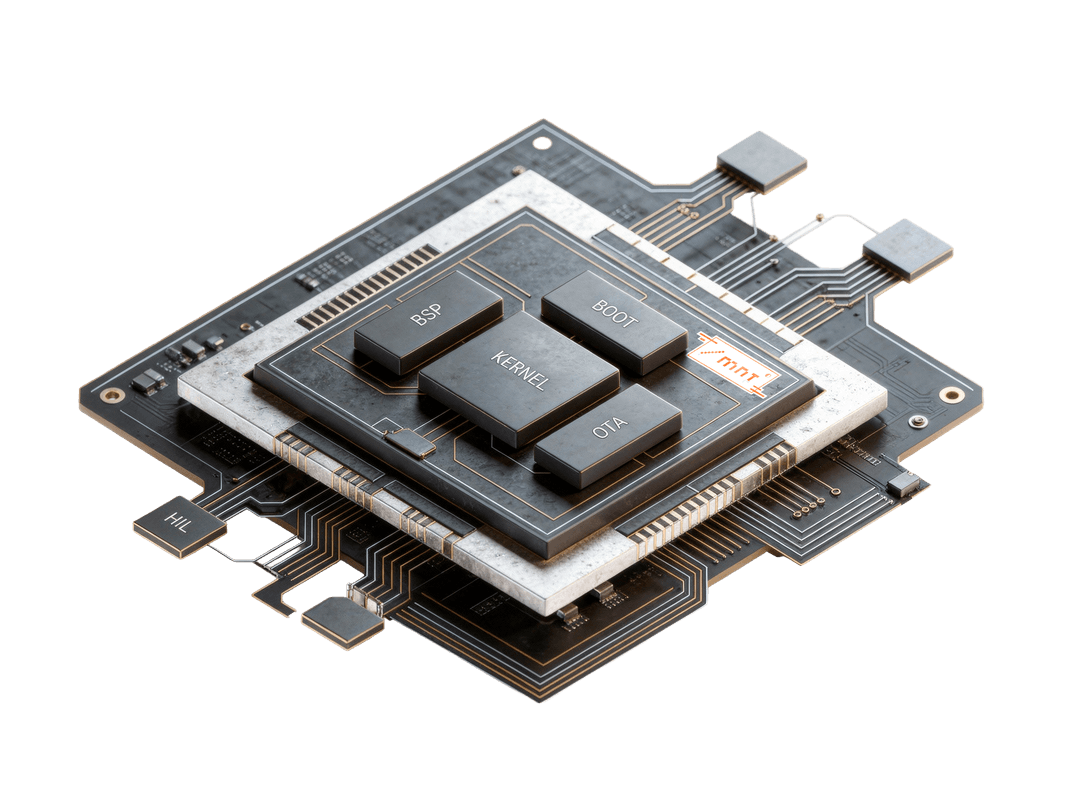
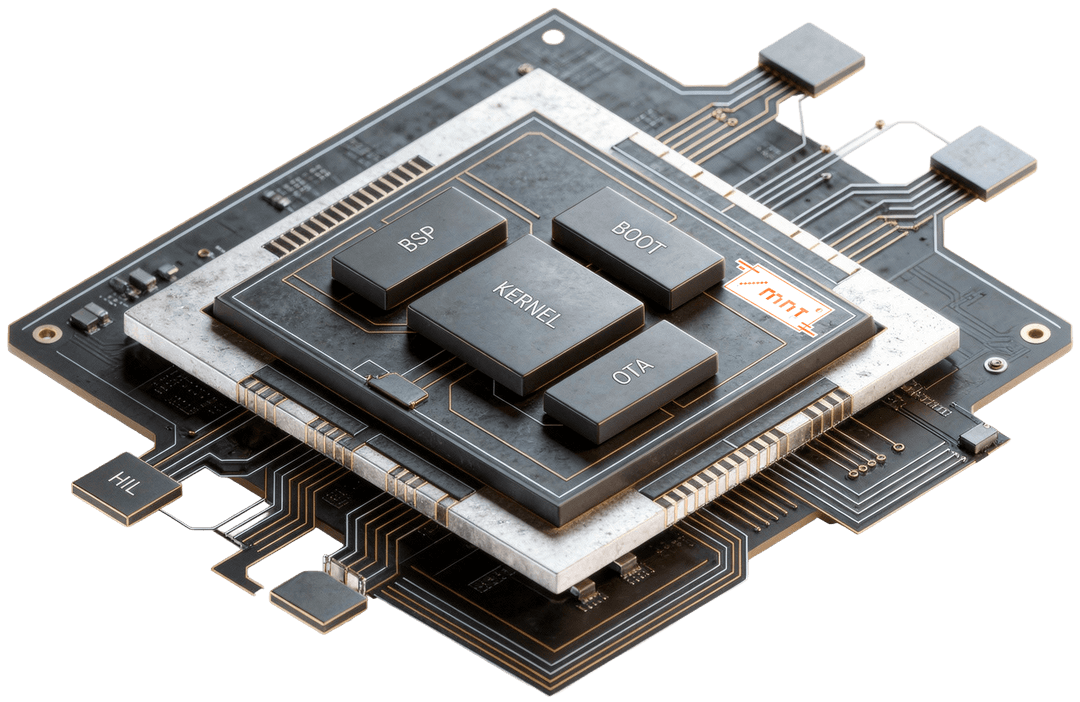
Update homepage and hero images

diff --git a/layouts/index.html b/layouts/index.html
@@ -2,7 +2,8 @@
 <html data-wf-page="69c4fb4cc51b8377ed2d0952" data-wf-site="69c4fb4bc51b8377ed2d08d2">
 <head>
   <meta charset="utf-8">
-  <title>MissingNo Technologies</title>
+  <title>MissingNo Technologies | Systems Engineering for High-Stakes Platforms</title>
+  <meta content="MissingNo Technologies helps build reliable high-stakes platforms through systems engineering, embedded software, platform architecture, and critical infrastructure expertise." name="description">
   <meta content="width=device-width, initial-scale=1" name="viewport">
   <link href="css/normalize.css" rel="stylesheet" type="text/css">
   <link href="css/components.css" rel="stylesheet" type="text/css">
@@ -281,7 +282,7 @@
     <div class="container container-navbar w-container">
       <div class="div-block">
         <div class="left-nav">
-          <a href="#" class="w-nav-brand"><img src="images/logo-mnt.png" loading="lazy" alt="" class="logo"></a>
+          <a href="#" class="w-nav-brand"><img src="images/logo-mnt.png" loading="lazy" alt="logo MissingNo Technologies" class="logo"></a>
           <div class="text-block">MissingNo<br>Technologies.</div>
           <div class="int-site">
             <div class="point"></div>
@@ -374,7 +375,7 @@
             </div>
           </div>
           <div class="col-2-banner">
-            <div class="bg-banner-blur"></div><img src="images/60520103-1ba0-45f9-9ed3-addb81d17af2.png" loading="lazy" sizes="(max-width: 767px) 100vw, (max-width: 991px) 728px, 940px" srcset="images/60520103-1ba0-45f9-9ed3-addb81d17af2.png 500w, images/60520103-1ba0-45f9-9ed3-addb81d17af2.png 800w, images/60520103-1ba0-45f9-9ed3-addb81d17af2.png 1080w, images/60520103-1ba0-45f9-9ed3-addb81d17af2.png 1600w, images/60520103-1ba0-45f9-9ed3-addb81d17af2.png 2000w, images/60520103-1ba0-45f9-9ed3-addb81d17af2.png 2048w" alt="" class="image">
+            <div class="bg-banner-blur"></div><img src="images/60520103-1ba0-45f9-9ed3-addb81d17af2.png" loading="lazy" sizes="(max-width: 767px) 100vw, (max-width: 991px) 728px, 940px" srcset="images/60520103-1ba0-45f9-9ed3-addb81d17af2.png 500w, images/60520103-1ba0-45f9-9ed3-addb81d17af2.png 800w, images/60520103-1ba0-45f9-9ed3-addb81d17af2.png 1080w, images/60520103-1ba0-45f9-9ed3-addb81d17af2.png 1600w, images/60520103-1ba0-45f9-9ed3-addb81d17af2.png 2000w, images/60520103-1ba0-45f9-9ed3-addb81d17af2.png 2048w" alt="3D rendering of an electronic chip on a circuit board, labeled BSP, Boot, Kernel, OTA, and HIL." class="image">
           </div>
         </div>
       </div>
@@ -386,7 +387,7 @@
             <div><strong>High-leverage integration</strong></div>
           </div>
           <div class="pt40"></div>
-          <h1 class="title-h2"><span id="glitch-word" class="glitch-word">A Strike Team of Senior Engineers.</span> <span class="orange-200">No Overhead.</span></h1>
+          <h1 class="title-h2"><span id="glitch-word" class="glitch-word">A Strike Team of Senior Engineers.</span><br><span class="orange-200">No Overhead.</span></h1>
           <div class="pt20"></div>
           <div class="text-xl">Our partners call us when a project requires deep architectural insight rather than just more lines of code. We integrate into your team and development cycles within days.</div>
         </div>
@@ -522,7 +523,7 @@
         <div class="text-xl w70 block-center">We also provide technical training to help engineering teams build stronger internal capabilities across the embedded stack.</div>
         <div class="wrapper-training">
           <div class="item-training item-shadow">
-            <div class="bg-icon-training block-center"><img src="images/a2ce997d-8140-4d89-9de2-806221910673.png" loading="lazy" sizes="100vw" srcset="images/a2ce997d-8140-4d89-9de2-806221910673.png 500w, images/a2ce997d-8140-4d89-9de2-806221910673.png 800w, images/a2ce997d-8140-4d89-9de2-806221910673.png 1080w, images/a2ce997d-8140-4d89-9de2-806221910673.png 1200w" alt=""></div>
+            <div class="bg-icon-training block-center"><img src="images/a2ce997d-8140-4d89-9de2-806221910673.png" loading="lazy" sizes="100vw" srcset="images/a2ce997d-8140-4d89-9de2-806221910673.png 500w, images/a2ce997d-8140-4d89-9de2-806221910673.png 800w, images/a2ce997d-8140-4d89-9de2-806221910673.png 1080w, images/a2ce997d-8140-4d89-9de2-806221910673.png 1200w" alt="Logo Yocto Project"></div>
             <div class="pt20"></div>
             <h2 class="title-h3">Yocto Build System</h2>
             <div class="pt40"></div>
@@ -530,7 +531,7 @@
             <div class="overlay"></div>
           </div>
           <div class="item-training item-shadow">
-            <div class="bg-icon-training block-center"><img src="images/téléchargement.svg" loading="lazy" alt=""></div>
+            <div class="bg-icon-training block-center"><img src="images/téléchargement.svg" loading="lazy" alt="Logo Android"></div>
             <div class="pt20"></div>
             <h2 class="title-h3">Android Build System</h2>
             <div class="pt40"></div>
@@ -581,7 +582,7 @@
             <div class="pt40"></div>
             <div class="text-xl color-gray">Based in Toulouse (France), the global hub for aerospace engineering, we operate with European rigor while ensuring seamless collaboration with our US-based partners.</div>
             <div class="pt40"></div>
-            <div class="wrapper-image-contact item-shadow"><img src="images/91485d69-b25d-4518-916a-4b13458cb1db.png" loading="lazy" sizes="100vw" srcset="images/91485d69-b25d-4518-916a-4b13458cb1db.png 500w, images/91485d69-b25d-4518-916a-4b13458cb1db.png 750w" alt="" class="image-2">
+            <div class="wrapper-image-contact item-shadow"><img src="images/91485d69-b25d-4518-916a-4b13458cb1db.png" loading="lazy" sizes="100vw" srcset="images/91485d69-b25d-4518-916a-4b13458cb1db.png 500w, images/91485d69-b25d-4518-916a-4b13458cb1db.png 750w" alt="Image of Place du Capitole in Toulouse" class="image-2">
               <div class="block-image-city">
                 <div>Toulouse, France</div>
               </div>
